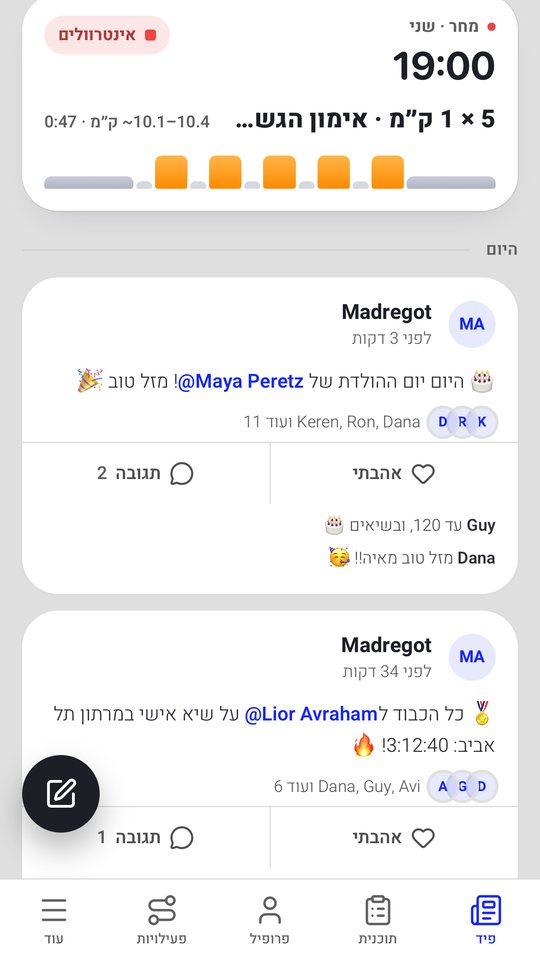
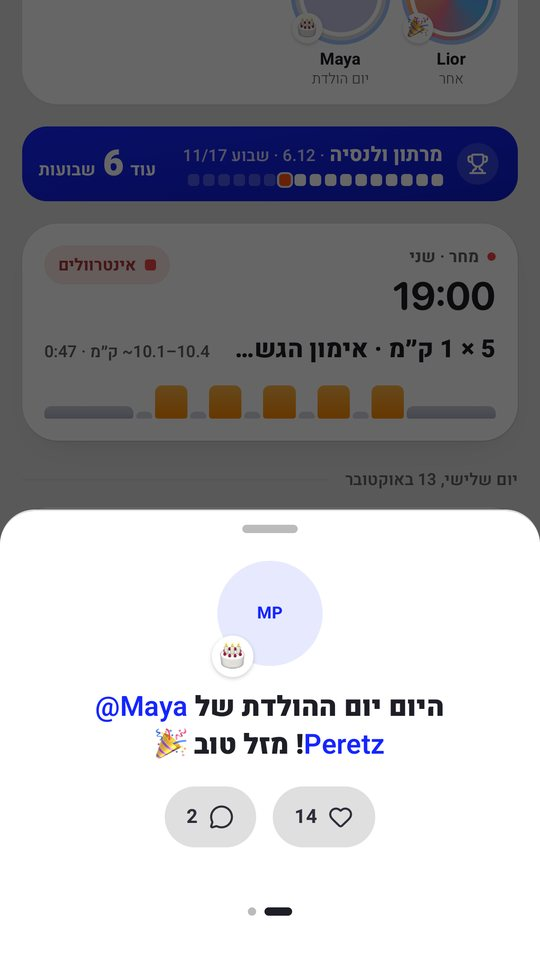
whats-new: the feed and celebration pages from the merged feed (story circles), tap-in frames for a birthday and a cheer

diff --git a/src/lib/whats-new/evening.ts b/src/lib/whats-new/evening.ts
@@ -120,18 +120,19 @@ export const EVENING_ENTRIES: WhatsNewEntry[] = [
       { key: 'b18-feed-top', he: 'המרוץ, האימון וימי ההולדת', en: 'The race, the session and the birthdays' },
       { key: 'b18-feed-runs', he: 'כרטיסי הריצה', en: 'The run cards' },
     ],
-    he: { title: 'הפיד, מחדש', body: 'בראש הפיד: כמה שבועות נשארו למרוץ שלך, האימון הבא, וימי ההולדת של היום. ומתחת: כרטיסי ריצה נקיים, עם המספרים החשובים בגדול.', cta: 'לפיד', kicker: 'חדש · פיד', where: 'הלשונית "פיד" למטה' },
-    en: { title: 'Your feed, redone', body: 'At the top: how many weeks to your race, the next session, and today\'s birthdays. Below: clean run cards, the numbers that matter up front.', cta: 'To the feed', kicker: 'New · Feed', where: 'The "Feed" tab at the bottom' },
+    he: { title: 'הפיד, מחדש', body: 'בראש הפיד: מי חוגג היום, כמה שבועות נשארו למרוץ שלך, והאימון הבא. ומתחת: כרטיסי ריצה נקיים, עם המספרים החשובים בגדול.', cta: 'לפיד', kicker: 'חדש · פיד', where: 'הלשונית "פיד" למטה' },
+    en: { title: 'Your feed, redone', body: 'At the top: who is celebrating today, how many weeks to your race, and the next session. Below: clean run cards, the numbers that matter up front.', cta: 'To the feed', kicker: 'New · Feed', where: 'The "Feed" tab at the bottom' },
   },
   {
     slug: 'b18-celebrations',
     publishedAt: EVENING_DATE,
     href: '/feed',
     cards: [
-      { key: 'b18-celebrations', he: 'יום הולדת ושיא אישי', en: 'A birthday and a personal best' },
+      { key: 'b18-celebrations', he: 'יום הולדת', en: 'A birthday' },
+      { key: 'b18-celebrations-cheer', he: 'שיא אישי', en: 'A personal best' },
     ],
-    he: { title: 'ימי הולדת וחגיגות, בפיד', body: 'יום הולדת במועדון? הברכה עולה לפיד לבד. שיא אישי או מרתון מהיר? המאמנים מפרסמים ברכה. לייק ותגובה, כמו בכל פוסט.', cta: 'לפיד', kicker: 'חדש · חגיגות', where: 'בפיד' },
-    en: { title: 'Birthdays and celebrations, on the feed', body: 'A birthday in the club? The wish goes up by itself. A personal best or a fast marathon? The coaches post a cheer. Like and comment, as on any post.', cta: 'To the feed', kicker: 'New · Celebrations', where: 'On the feed' },
+    he: { title: 'ימי הולדת וחגיגות, בפיד', body: '"חוגגים היום" בראש הפיד: יום הולדת עולה לבד, ושיא אישי או מרתון מהיר מקבלים ברכה מהמאמנים. נגיעה בעיגול פותחת את החגיגה, עם לייק ותגובה.', cta: 'לפיד', kicker: 'חדש · חגיגות', where: 'בפיד' },
+    en: { title: 'Birthdays and celebrations, on the feed', body: '"Celebrating today" at the top of the feed: birthdays go up by themselves, and a personal best or a fast marathon gets a cheer from the coaches. Tap a circle to open it, like and comment.', cta: 'To the feed', kicker: 'New · Celebrations', where: 'On the feed' },
   },
   {
     slug: 'b18-run-page',
